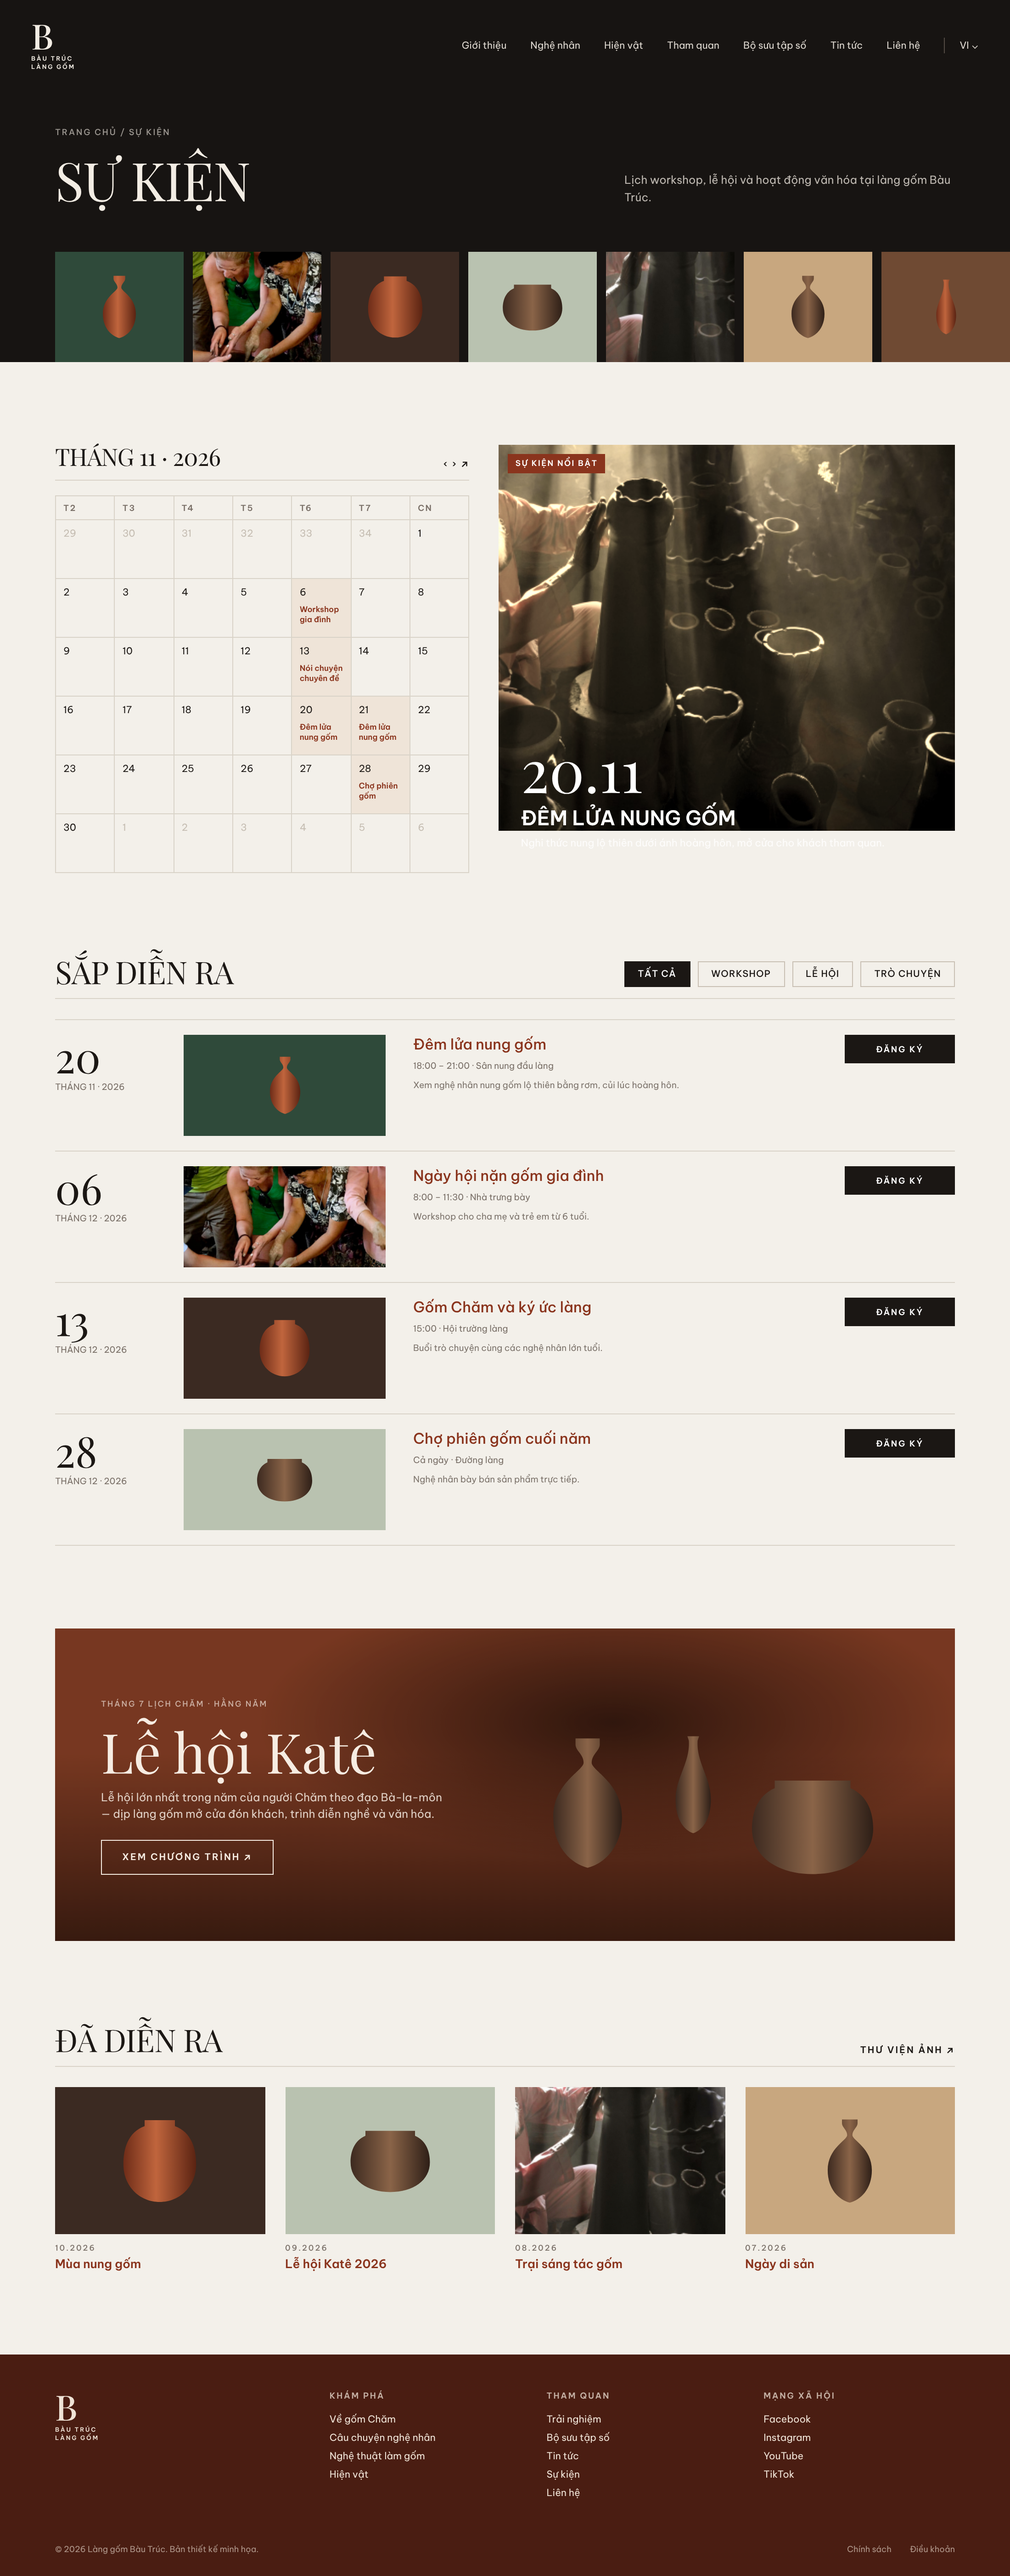
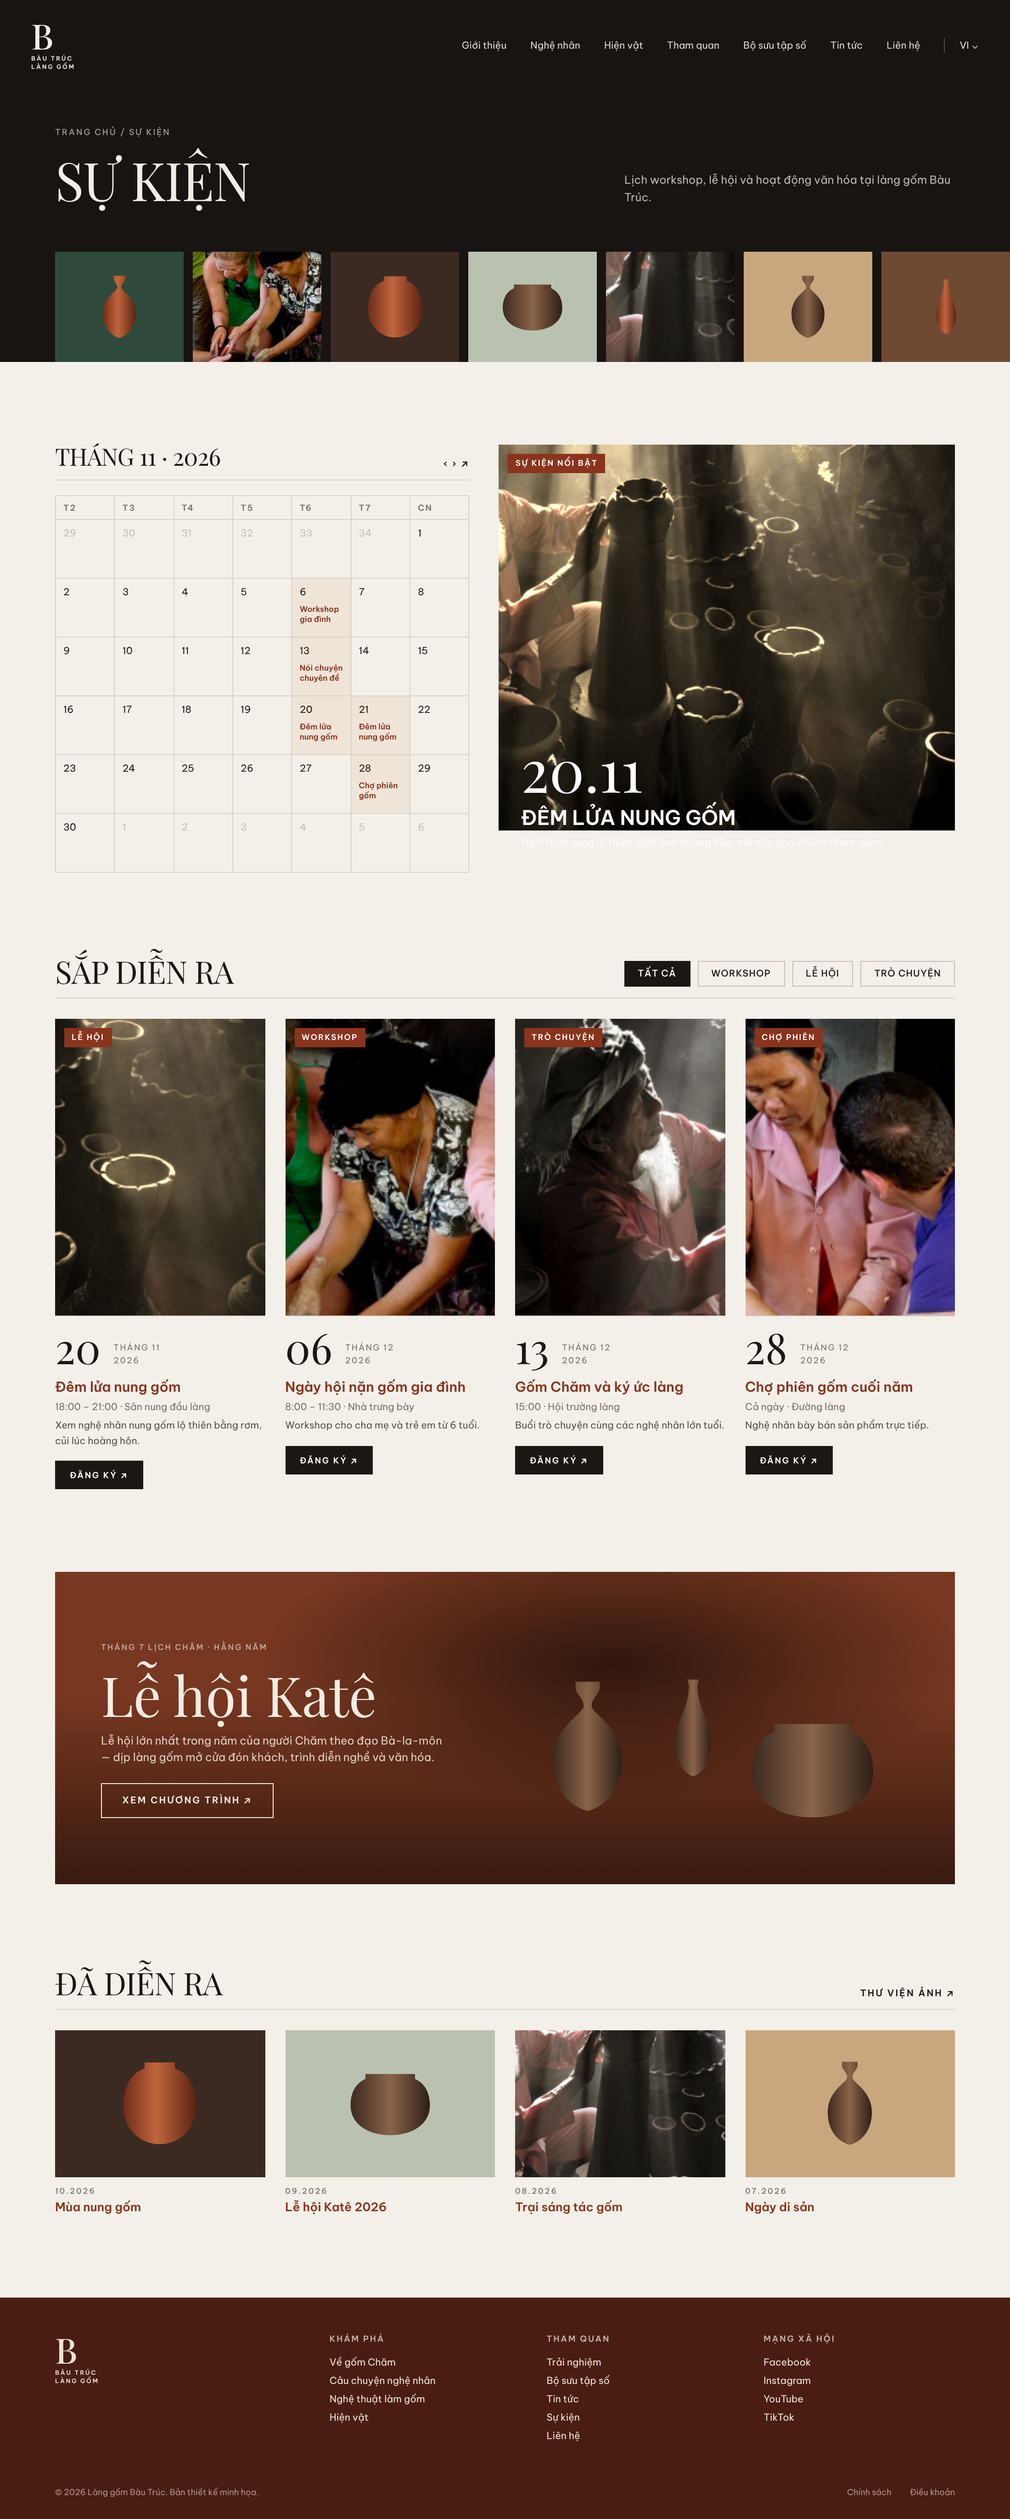
Use A4 portrait frames for upcoming events
Claude-Session: https://claude.ai/code/session_01ADwpjtFCyopsj64y6iybqi

diff --git a/design/subpages/su-kien.html b/design/subpages/su-kien.html
@@ -211,7 +211,7 @@ footer li{list-style:none;font-size:10.5px;line-height:1.9}
   </nav><div class="in"><div><div class="crumb">Trang chủ / Sự kiện</div><h1>Sự kiện</h1></div><p>Lịch workshop, lễ hội và hoạt động văn hóa tại làng gốm Bàu Trúc.</p></div><div class="strip"><div style="height:120px;background:#2f4a3a;display:grid;place-items:center"><svg width="54" height="74"><use href="#vase1" fill="url(#clay)" width="54" height="74"/></svg></div><div class="img p" style="height:120px;background-position:45% 60%;background-size:auto 380px;"></div><div style="height:120px;background:#3b2a22;display:grid;place-items:center"><svg width="63" height="74"><use href="#jar" fill="url(#clay)" width="63" height="74"/></svg></div><div style="height:120px;background:#b9c2b0;display:grid;place-items:center"><svg width="70" height="54"><use href="#pot" fill="url(#clay2)" width="70" height="54"/></svg></div><div class="img a" style="height:120px;background-position:55% 40%;background-size:auto 520px;"></div><div style="height:120px;background:#c8a77f;display:grid;place-items:center"><svg width="54" height="74"><use href="#vase1" fill="url(#clay2)" width="54" height="74"/></svg></div><div style="height:120px;background:#6f4a33;display:grid;place-items:center"><svg width="45" height="74"><use href="#vase2" fill="url(#clay)" width="45" height="74"/></svg></div></div></header><main class="wrap">
 <section><div class="g2" style="grid-template-columns:1fr 1.1fr"><div><div class="head" style="margin-bottom:16px"><h2 style="font-size:26px">Tháng 11 · 2026</h2><span class="more">‹ ›</span></div><div class="cal"><div class="h">T2</div><div class="h">T3</div><div class="h">T4</div><div class="h">T5</div><div class="h">T6</div><div class="h">T7</div><div class="h">CN</div><div class="m">29</div><div class="m">30</div><div class="m">31</div><div class="m">32</div><div class="m">33</div><div class="m">34</div><div class="">1</div><div class="">2</div><div class="">3</div><div class="">4</div><div class="">5</div><div class="e">6<i>Workshop gia đình</i></div><div class="">7</div><div class="">8</div><div class="">9</div><div class="">10</div><div class="">11</div><div class="">12</div><div class="e">13<i>Nói chuyện chuyên đề</i></div><div class="">14</div><div class="">15</div><div class="">16</div><div class="">17</div><div class="">18</div><div class="">19</div><div class="e">20<i>Đêm lửa nung gốm</i></div><div class="e">21<i>Đêm lửa nung gốm</i></div><div class="">22</div><div class="">23</div><div class="">24</div><div class="">25</div><div class="">26</div><div class="">27</div><div class="e">28<i>Chợ phiên gốm</i></div><div class="">29</div><div class="">30</div><div class="m">1</div><div class="m">2</div><div class="m">3</div><div class="m">4</div><div class="m">5</div><div class="m">6</div></div></div>
 <div class="rel"><div class="img a" style="height:420px;background-position:80% 50%;background-size:auto 640px;filter:sepia(.6) saturate(1.5)"></div><span class="badge dk">Sự kiện nổi bật</span><div style="position:absolute;left:24px;bottom:24px;right:24px;color:#fff"><div style="font:400 64px/1 Playfair Display,serif">20.11</div><div style="font:600 22px/1.2 Be Vietnam Pro;text-transform:uppercase;margin-top:8px">Đêm lửa nung gốm</div><p style="font-size:11px;opacity:.85;margin-top:6px">Nghi thức nung lộ thiên dưới ánh hoàng hôn, mở cửa cho khách tham quan.</p></div></div></div></section>
-<section><div class="head"><h2>Sắp diễn ra</h2><div class="tabs" style="margin:0"><span class="on">Tất cả</span><span>Workshop</span><span>Lễ hội</span><span>Trò chuyện</span></div></div><div class="pr"><div class="row" style="grid-template-columns:110px 220px 1fr 120px"><div><div style="font:400 46px/1 Playfair Display,serif">20</div><div class="d">THÁNG 11 · 2026</div></div><div style="height:110px;background:#2f4a3a;display:grid;place-items:center"><svg width="49" height="68"><use href="#vase1" fill="url(#clay)" width="49" height="68"/></svg></div><div><h5 style="font-size:16px">Đêm lửa nung gốm</h5><div class="d" style="margin:6px 0">18:00 – 21:00 · Sân nung đầu làng</div><p>Xem nghệ nhân nung gốm lộ thiên bằng rơm, củi lúc hoàng hôn.</p></div><span class="mini" style="text-align:center;align-self:start">ĐĂNG KÝ</span></div><div class="row" style="grid-template-columns:110px 220px 1fr 120px"><div><div style="font:400 46px/1 Playfair Display,serif">06</div><div class="d">THÁNG 12 · 2026</div></div><div class="img p" style="height:110px;background-position:45% 60%;background-size:auto 380px;"></div><div><h5 style="font-size:16px">Ngày hội nặn gốm gia đình</h5><div class="d" style="margin:6px 0">8:00 – 11:30 · Nhà trưng bày</div><p>Workshop cho cha mẹ và trẻ em từ 6 tuổi.</p></div><span class="mini" style="text-align:center;align-self:start">ĐĂNG KÝ</span></div><div class="row" style="grid-template-columns:110px 220px 1fr 120px"><div><div style="font:400 46px/1 Playfair Display,serif">13</div><div class="d">THÁNG 12 · 2026</div></div><div style="height:110px;background:#3b2a22;display:grid;place-items:center"><svg width="58" height="68"><use href="#jar" fill="url(#clay)" width="58" height="68"/></svg></div><div><h5 style="font-size:16px">Gốm Chăm và ký ức làng</h5><div class="d" style="margin:6px 0">15:00 · Hội trường làng</div><p>Buổi trò chuyện cùng các nghệ nhân lớn tuổi.</p></div><span class="mini" style="text-align:center;align-self:start">ĐĂNG KÝ</span></div><div class="row" style="grid-template-columns:110px 220px 1fr 120px"><div><div style="font:400 46px/1 Playfair Display,serif">28</div><div class="d">THÁNG 12 · 2026</div></div><div style="height:110px;background:#b9c2b0;display:grid;place-items:center"><svg width="64" height="50"><use href="#pot" fill="url(#clay2)" width="64" height="50"/></svg></div><div><h5 style="font-size:16px">Chợ phiên gốm cuối năm</h5><div class="d" style="margin:6px 0">Cả ngày · Đường làng</div><p>Nghệ nhân bày bán sản phẩm trực tiếp.</p></div><span class="mini" style="text-align:center;align-self:start">ĐĂNG KÝ</span></div></div></section>
+<section><div class="head"><h2>Sắp diễn ra</h2><div class="tabs" style="margin:0"><span class="on">Tất cả</span><span>Workshop</span><span>Lễ hội</span><span>Trò chuyện</span></div></div><div class="g4" style="align-items:start"><div class="card"><div class="rel" style="box-shadow:0 1px 0 var(--line)"><div class="img a" style="height:0px;background-position:80% 50%;background-size:auto 780px;height:auto;aspect-ratio:1/1.414;filter:sepia(.6) saturate(1.5)"></div><span class="badge dk">Lễ hội</span></div><div style="display:flex;gap:14px;align-items:end;margin-top:14px"><div style="font:400 46px/0.9 Playfair Display,serif">20</div><div class="d" style="font-size:9px;letter-spacing:1.2px;color:var(--muted)">THÁNG 11<br>2026</div></div><h4 style="font-size:15px;margin-top:12px">Đêm lửa nung gốm</h4><p style="margin-top:4px;color:var(--muted)">18:00 – 21:00 · Sân nung đầu làng</p><p>Xem nghệ nhân nung gốm lộ thiên bằng rơm, củi lúc hoàng hôn.</p><span class="mini" style="display:inline-block;margin-top:14px">ĐĂNG KÝ ↗</span></div><div class="card"><div class="rel" style="box-shadow:0 1px 0 var(--line)"><div class="img p" style="aspect-ratio:1/1.414;background-position:52% 50%;background-size:auto 900px"></div><span class="badge dk">Workshop</span></div><div style="display:flex;gap:14px;align-items:end;margin-top:14px"><div style="font:400 46px/0.9 Playfair Display,serif">06</div><div class="d" style="font-size:9px;letter-spacing:1.2px;color:var(--muted)">THÁNG 12<br>2026</div></div><h4 style="font-size:15px;margin-top:12px">Ngày hội nặn gốm gia đình</h4><p style="margin-top:4px;color:var(--muted)">8:00 – 11:30 · Nhà trưng bày</p><p>Workshop cho cha mẹ và trẻ em từ 6 tuổi.</p><span class="mini" style="display:inline-block;margin-top:14px">ĐĂNG KÝ ↗</span></div><div class="card"><div class="rel" style="box-shadow:0 1px 0 var(--line)"><div class="img a" style="height:0px;background-position:30% 20%;background-size:auto 780px;height:auto;aspect-ratio:1/1.414;"></div><span class="badge dk">Trò chuyện</span></div><div style="display:flex;gap:14px;align-items:end;margin-top:14px"><div style="font:400 46px/0.9 Playfair Display,serif">13</div><div class="d" style="font-size:9px;letter-spacing:1.2px;color:var(--muted)">THÁNG 12<br>2026</div></div><h4 style="font-size:15px;margin-top:12px">Gốm Chăm và ký ức làng</h4><p style="margin-top:4px;color:var(--muted)">15:00 · Hội trường làng</p><p>Buổi trò chuyện cùng các nghệ nhân lớn tuổi.</p><span class="mini" style="display:inline-block;margin-top:14px">ĐĂNG KÝ ↗</span></div><div class="card"><div class="rel" style="box-shadow:0 1px 0 var(--line)"><div class="img p" style="aspect-ratio:1/1.414;background-position:72% 35%;background-size:auto 900px"></div><span class="badge dk">Chợ phiên</span></div><div style="display:flex;gap:14px;align-items:end;margin-top:14px"><div style="font:400 46px/0.9 Playfair Display,serif">28</div><div class="d" style="font-size:9px;letter-spacing:1.2px;color:var(--muted)">THÁNG 12<br>2026</div></div><h4 style="font-size:15px;margin-top:12px">Chợ phiên gốm cuối năm</h4><p style="margin-top:4px;color:var(--muted)">Cả ngày · Đường làng</p><p>Nghệ nhân bày bán sản phẩm trực tiếp.</p><span class="mini" style="display:inline-block;margin-top:14px">ĐĂNG KÝ ↗</span></div></div></section>
 <section><div class="dig" style="height:340px"><div class="bg" style="background:#7a2e1a"></div><div style="position:absolute;inset:0;display:grid;grid-template-columns:1fr 1fr;align-items:center;padding:0 50px;color:#f6ece2"><div><span class="tag" style="color:#f6ece2aa">Tháng 7 lịch Chăm · Hằng năm</span><div style="font:400 60px/1 Playfair Display,serif;margin:12px 0">Lễ hội Katê</div><p style="font-size:12px;opacity:.85;max-width:380px">Lễ hội lớn nhất trong năm của người Chăm theo đạo Bà-la-môn — dịp làng gốm mở cửa đón khách, trình diễn nghề và văn hóa.</p><span class="btnl" style="border-color:#f6ece2">XEM CHƯƠNG TRÌNH ↗</span></div><div style="display:flex;gap:20px;justify-content:center;align-items:end"><svg width="110" height="160"><use href="#vase1" fill="url(#clay2)" width="110" height="160"/></svg><svg width="80" height="200"><use href="#vase2" fill="url(#clay2)" width="80" height="200"/></svg><svg width="140" height="110"><use href="#pot" fill="url(#clay2)" width="140" height="110"/></svg></div></div></div></section>
 <section><div class="head"><h2>Đã diễn ra</h2><span class="more">Thư viện ảnh</span></div><div class="g4"><div class="card"><div style="height:160px;background:#3b2a22;display:grid;place-items:center"><svg width="84" height="99"><use href="#jar" fill="url(#clay)" width="84" height="99"/></svg></div><span class="tag">10.2026</span><h4>Mùa nung gốm</h4></div><div class="card"><div style="height:160px;background:#b9c2b0;display:grid;place-items:center"><svg width="94" height="72"><use href="#pot" fill="url(#clay2)" width="94" height="72"/></svg></div><span class="tag">09.2026</span><h4>Lễ hội Katê 2026</h4></div><div class="card"><div class="img a" style="height:160px;background-position:55% 40%;background-size:auto 520px;"></div><span class="tag">08.2026</span><h4>Trại sáng tác gốm</h4></div><div class="card"><div style="height:160px;background:#c8a77f;display:grid;place-items:center"><svg width="71" height="99"><use href="#vase1" fill="url(#clay2)" width="71" height="99"/></svg></div><span class="tag">07.2026</span><h4>Ngày di sản</h4></div></div></section></main><footer><div class="wrap"><div class="fg">
 <div class="logo"><b>B</b><small>BÀU TRÚC<br>LÀNG GỐM</small></div>
